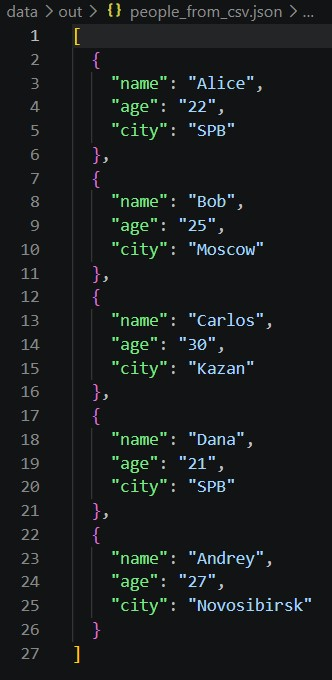
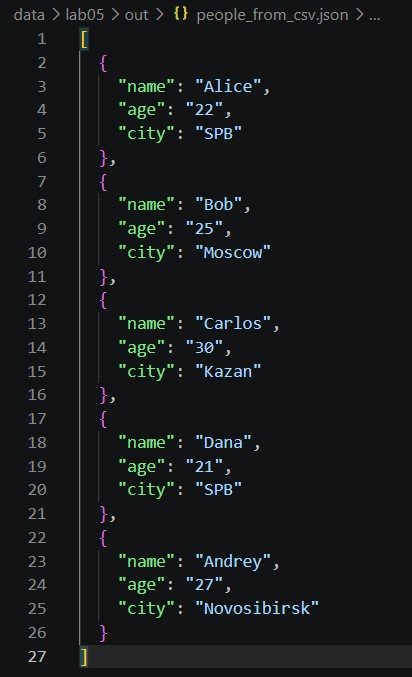
kk

Changed region(s): [[0.0301, 0.0, 0.9337, 0.9926], [0.2711, 0.0, 0.9036, 0.031]]

diff --git a/src/lab05/csv_xlsx.py b/src/lab05/csv_xlsx.py
@@ -1,0 +1,50 @@
+from pathlib import Path
+from openpyxl import Workbook
+from src.lib.io_helpers import ensure_parent_dir
+import csv
+
+def csv_to_xlsx(csv_path: str, xlsx_path: str) -> None:
+    """
+    Конвертирует CSV в XLSX.
+    Использовать openpyxl ИЛИ xlsxwriter.
+    Первая строка CSV — заголовок.
+    Лист называется "Sheet1".
+    Колонки — автоширина по длине текста (не менее 8 символов).
+    """
+    csv_file=Path(csv_path)
+    xlsx_file=Path(xlsx_path)
+
+    if not csv_file.exists():
+        raise FileNotFoundError("файл отсутствует")
+    if csv_file.suffix.lower() != ".csv":
+        raise ValueError("неверный тип файла, должен быть .csv")
+    if xlsx_file.suffix.lower() != ".xlsx":
+        raise ValueError("неверный тип файла, должен быть .xlsx")
+
+    with open(csv_file, "r", encoding = "utf-8", newline = "") as f:
+        reader = list(csv.reader(f))
+
+    if not reader:
+        raise ValueError("файл CSV пустой")
+    
+    wb = Workbook()
+    ws = wb.active
+    ws.title = "Sheet1"
+    for row in reader:
+        ws.append(row)
+
+    for column in ws.columns:
+        max_len = 0
+        letter = column[0].column_letter
+
+        for cell in column:
+            if cell.value is not None and len(str(cell.value)) > max_len:
+                max_len = len(str(cell.value))
+
+        ws.column_dimensions[letter].width = max(max_len, 8)
+
+    ensure_parent_dir(xlsx_file)
+    wb.save(xlsx_file)
+
+if __name__=="__main__":
+    csv_to_xlsx("data\lab05\samples\cities.csv","data\lab05\out\cities.xlsx")

diff --git a/src/lab05/json_csv.py b/src/lab05/json_csv.py
@@ -26,7 +26,7 @@ def json_to_csv(json_path: str, csv_path: str) -> None:
             print("Пустой JSON или неподдерживаемая структура")
             sys.exit(1)
         
-    if len(data) == 0:
+    if not data:
         raise ValueError("пустой json файл")
     if not isinstance(data,list):
         raise ValueError("неверный тип данных")
@@ -69,7 +69,7 @@ def csv_to_json(csv_path: str, json_path: str) -> None:
 
         data=list(reader)
 
-    if len(data) == 0:
+    if not data:
         raise ValueError("в CSV файле отсутствуют данные")
 
     ensure_parent_dir(json_file)
@@ -79,5 +79,5 @@ def csv_to_json(csv_path: str, json_path: str) -> None:
 
 
 if __name__=="__main__":
-    json_to_csv("data\samples\people.json","data\out\people_from_json.csv")
-    csv_to_json("data\samples\people.csv","data\out\people_from_csv.json")
+    json_to_csv("data\lab05\samples\people.json","data\lab05\out\people_from_json.csv")
+    csv_to_json("data\lab05\samples\people.csv","data\lab05\out\people_from_csv.json")

diff --git a/src/lab05/README.md b/src/lab05/README.md
@@ -28,7 +28,7 @@ def json_to_csv(json_path: str, csv_path: str) -> None:
             print("Пустой JSON или неподдерживаемая структура")
             sys.exit(1)
         
-    if len(data) == 0:
+    if not data:
         raise ValueError("пустой json файл")
     if not isinstance(data,list):
         raise ValueError("неверный тип данных")
@@ -64,7 +64,7 @@ python -m src.lab05.json_csv
 ```
 **Вызов функции**
 ```
-json_to_csv("data\samples\people.json","data\out\people_from_json.csv")
+json_to_csv("data\lab05\samples\people.json","data\lab05\out\people_from_json.csv")
 ```
 **Вывод в `data.out.people_from_json.csv`**
 
@@ -96,7 +96,7 @@ def csv_to_json(csv_path: str, json_path: str) -> None:
 
         data=list(reader)
 
-    if len(data) == 0:
+    if not data:
         raise ValueError("в CSV файле отсутствуют данные")
 
     ensure_parent_dir(json_file)
@@ -123,8 +123,9 @@ python -m src.lab05.json_csv
 ```
 **Вызов функции**
 ```
-csv_to_json("data\samples\people.csv","data\out\people_from_csv.json")
+csv_to_json("data\lab05\samples\people.csv","data\lab\05\out\people_from_csv.json")
 ```
+
 **Вывод в `data.out.people_from_csv.json`**
 
 ![](https://github.com/uswqs/python_labs/blob/main/images/lab05/people_from_csv.jpg?raw=true)
